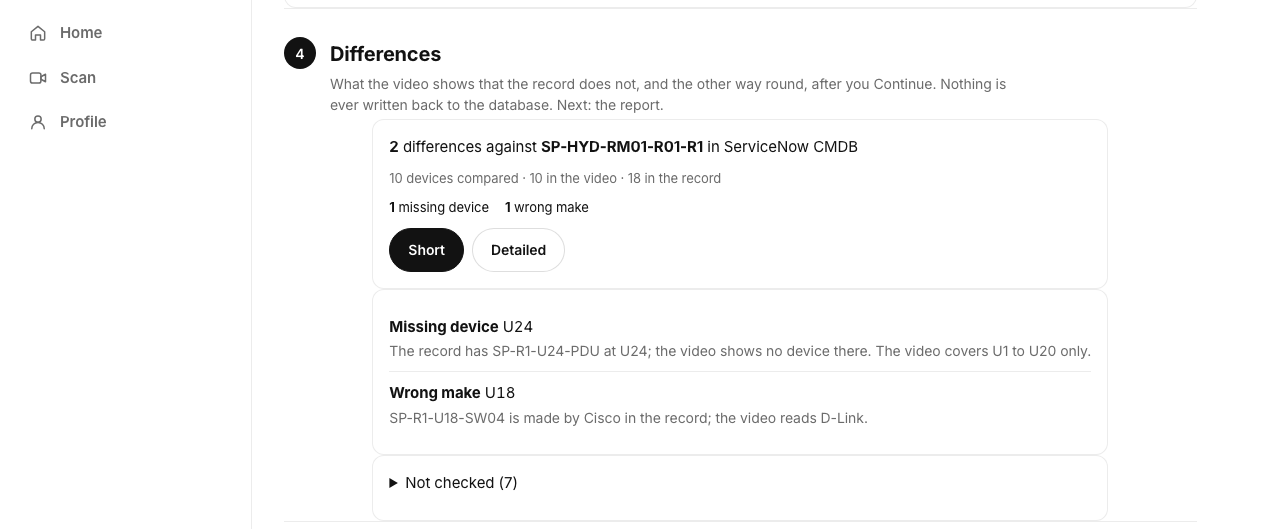
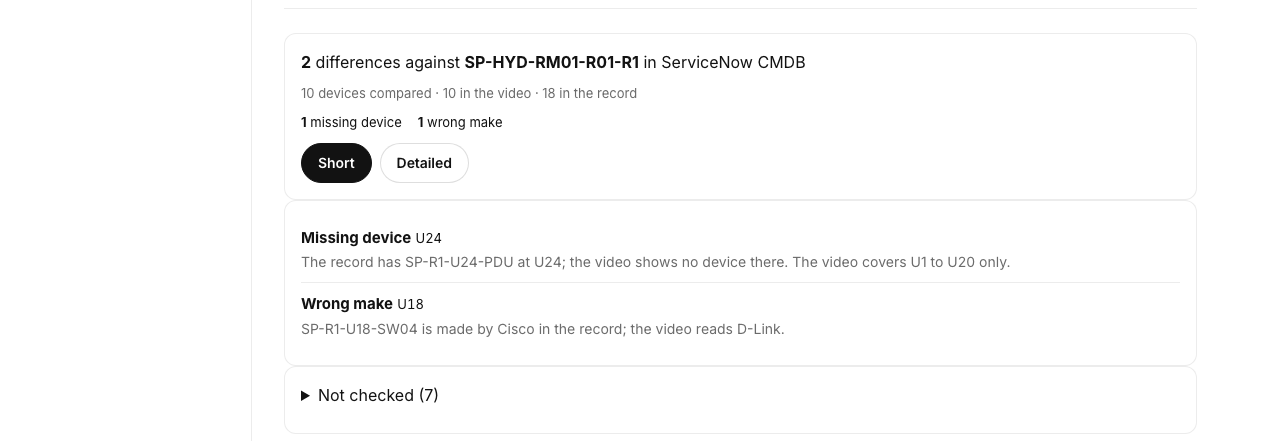
The result has three parts, Rack, Devices and Report; the compare lives inside the Report (the database dropdown and Compare, the rack identified step by step with proof and confidence, Continue, then the differences short or detailed, then the earlier scans at the bottom); one type scale and spacin

diff --git a/mobile/app.js b/mobile/app.js
@@ -38,8 +38,8 @@
   // ---------------------------------------------------------------- routing: #signin #home #history #sweep #job/<id> #result/<id> #report/<id> #more #models
   var DETAIL = { job: 'Run', result: 'Result', history: 'History', models: 'Models and accuracy', connections: 'Connections', copies: 'Database copies' };
   // the result's bar: Main is the rack read from the data; the other four show the report's steps in groups
-  var TABS = { rack: '1 The rack picture', devices: '2 Devices read', record: '3 The record', diff: '4 Differences', report: '5 Report' };   // one page in this order; the keys are the steps to jump to
-  var ALIAS = { elevation: 'devices', drift: 'record', ports: 'devices' };   // ports live on each device (user, 2026-10-27: one place per device)
+  var TABS = { rack: 'Rack', devices: 'Devices', report: 'Report' };   // one page in three parts; the compare and its differences live inside the Report
+  var ALIAS = { elevation: 'devices', drift: 'compare', record: 'compare', diff: 'diff', ports: 'devices', compare: 'compare' };   // ports live on each device (user, 2026-10-27: one place per device)
   var KINDS = ['Switch', 'Router', 'Firewall', 'Gateway', 'Patch Panel', 'Server', 'Storage unit', 'PDU', 'UPS', 'Other'];
   var LAST = null;                                   // the run the Report tab opens: the one being looked at, else the newest finished one
   try { LAST = localStorage.getItem('rt_last') || null; } catch (e) {}
@@ -56,7 +56,8 @@
   function route() {
     var h = (location.hash || '#home').slice(1), name = h.split('/')[0], arg = h.split('/')[1], arg2 = h.split('/')[2];
     if (name === 'report') { if (arg) return go('result/' + arg + '/report'); if (LAST) return go('result/' + LAST + '/report'); toast('The report appears here once a video has been analysed.'); return go('home'); }
-    var rtab = name === 'result' ? (TABS[arg2] ? arg2 : ALIAS[arg2] || 'rack') : null;
+    var rtab = name === 'result' ? (TABS[arg2] ? arg2 : ALIAS[arg2] ? (ALIAS[arg2] === 'compare' || ALIAS[arg2] === 'diff' ? 'report' : ALIAS[arg2]) : 'rack') : null;
+    if (name === 'result' && (ALIAS[arg2] === 'compare' || ALIAS[arg2] === 'diff')) RES.jump = ALIAS[arg2];
     if (rtab) { var order = Object.keys(TABS), was = order.indexOf(RES.tab || 'rack'), now = order.indexOf(rtab); document.body.dataset.dir = now > was ? 'fwd' : now < was ? 'back' : 'same'; RES.tab = rtab; }   // the tab's content slides in from the side it came from
     if (!me && !AUTH_SCREENS[name]) { name = 'signin'; }
     if (me && AUTH_SCREENS[name]) { name = 'home'; }
@@ -527,7 +528,7 @@
   function openResult(id, tab) {
     if (!id) return go('history');
     var fresh = RES.id !== id;
-    if (fresh) { RES.sel = null; RES.view = null; RES.pick = null; RES.labelAsked = null; RES.cmp = null; RES.cmpSrc = null; RES.diffMode = null; $('df-top').innerHTML = ''; $('diff-top').innerHTML = ''; $('rp-cmp').innerHTML = ''; }
+    if (fresh) { RES.sel = null; RES.view = null; RES.pick = null; RES.labelAsked = null; RES.cmp = null; RES.cmpSrc = null; RES.diffMode = null; $('df-top').innerHTML = ''; $('diff-top').innerHTML = ''; }
     RES.id = id; clearInterval(RES.timer); remember(id);
     RES.tab = tab; Object.keys(TABS).forEach(function (k) { $('res-' + k).hidden = false; }); $('res-elevation').hidden = false; $('res-eyebrow').textContent = 'Result'; $('rep-full').hidden = NATIVE;   // every step on one page
     loadView(true);
@@ -536,7 +537,7 @@
     if (fresh) loadOtherScans(id);
   }
   function loadView(first) {
-    api('/api/video/' + RES.id + '/view').then(function (v) { RES.view = v; renderResult(v, first); if (first) secTo(RES.tab); }).catch(function (e) { toast(e.message); if (first) go('job/' + RES.id); });
+    api('/api/video/' + RES.id + '/view').then(function (v) { RES.view = v; renderResult(v, first); if (first) { secTo(RES.jump || RES.tab); RES.jump = null; } }).catch(function (e) { toast(e.message); if (first) go('job/' + RES.id); });
   }
   function loadOtherScans(id) {                                         // the other scans of the same rack, newest first (Home lists a rack once)
     var el = $('res-others'); el.innerHTML = '';
@@ -885,8 +886,8 @@
   function pc(x) { return x == null ? '' : Math.round(x * 100) + ' %'; }
   var OUTCOME = { one: 'named one rack', narrowed: 'narrowed the racks', skipped: 'skipped', none: 'no single rack', tied: 'tied' };
   var HINT = { missing: 'Check whether the device is still in the rack. If the video did not reach that unit, scan the whole rack.',
-    extra: 'A device is in the rack that the record does not list: add it to the record, or check the reading in step 2.',
-    moved: 'The device sits at another unit than the record says: update the record, or check the unit numbers in step 1.',
+    extra: 'A device is in the rack that the record does not list: add it to the record, or check the reading under Devices.',
+    moved: 'The device sits at another unit than the record says: update the record, or check the unit numbers on the rack picture.',
     height: 'The record and the video give the device a different size.', kind: 'The record and the video name a different kind of device.',
     make: 'The faceplate reads another make than the record.', model: 'The faceplate reads another model than the record.', serial: 'The serial read differs from the record.',
     port_type: 'Look at the port: if the video is right, the record has the wrong port type.', port_occupied: 'A cable is where the record expects none, or missing where it expects one.',
@@ -913,7 +914,7 @@
       if (!d.match && I.top && I.top.length) h += '<p class="glabel">The closest racks</p><div class="idtop">' + I.top.map(function (t) { return '<button class="btn" type="button" data-cmppick="' + esc(t.rack_key) + '">' + esc(t.rack_key) + '<small class="muted"> ' + esc(t.why) + '</small></button>'; }).join('') + '</div>';
       h += '<div class="dfrow"><label class="muted small" for="cmp-type">' + (d.match ? 'Use another record' : 'Which rack is this?') + '</label><input id="cmp-type" list="cmp-list" placeholder="Search or type a rack id" autocomplete="off"><datalist id="cmp-list">'
         + d.candidates.map(function (r) { return '<option value="' + esc(r.rack_key) + '">' + esc(r.rack_key) + ' - ' + pl(r.devices, 'device') + '</option>'; }).join('') + '</datalist><button class="btn" type="button" id="cmp-use">Use this record</button></div>'
-        + '<p class="muted small">A name not in this copy is kept as this rack\'s id for the next scan of it (step 1, Change).</p>'
+        + '<p class="muted small">A name not in this copy is kept as this rack\'s id for the next scan of it (Change, next to the rack id at the top).</p>'
         + (d.match ? '<div class="dfrow"><button class="btn primary big" type="button" id="cmp-continue">' + (d.confirmed ? 'Compared. Compare again' : 'Continue') + '</button></div>' : '') + '</div>';
     }
     $('df-top').innerHTML = h;
@@ -922,8 +923,8 @@
   function recordRow(d, name) { var r = (d.record || []).filter(function (x) { return x.name === name; })[0]; if (!r) return '';
     return [r.name, r.kind, [r.manufacturer, r.model].filter(Boolean).join(' '), r.ru_start != null ? 'U' + r.ru_start + (r.ru_height > 1 ? '-' + (r.ru_start + r.ru_height - 1) : '') : ''].filter(Boolean).map(esc).join(' · '); }
   function renderDiff(d) {
-    var el = $('diff-top'), rp = $('rp-cmp');
-    if (!(d.confirmed && d.drift && d.match)) { el.innerHTML = '<p class="muted small">Press Compare in step 3, check the record, then Continue.</p>'; rp.innerHTML = ''; return; }
+    var el = $('diff-top');
+    if (!(d.confirmed && d.drift && d.match)) { el.innerHTML = ''; return; }
     var rows = d.drift.rows, mode = RES.diffMode || 'short', by = {}, src = d.sources[d.source];
     rows.forEach(function (r) { by[r.what] = (by[r.what] || 0) + 1; });
     var head = '<b>' + rows.length + '</b> ' + (rows.length === 1 ? 'difference' : 'differences') + ' against <b>' + esc(d.match.rack_key) + '</b> in ' + esc(src);
@@ -938,7 +939,6 @@
       + '<p>' + esc(r.words) + '</p><p class="muted small">' + esc(HINT[r.type] || '') + '</p></div>'; }).join('');
     if (d.drift.notes.length) h += '<details class="card"><summary>Not checked (' + d.drift.notes.length + ')</summary><ul class="muted small">' + d.drift.notes.map(function (n) { return '<li>' + esc(n) + '</li>'; }).join('') + '</ul></details>';
     el.innerHTML = h;
-    rp.innerHTML = '<div class="card"><span class="glabel">Compared with the record</span><p>' + head + '. ' + (rows.length ? Object.keys(by).map(function (k) { return by[k] + ' ' + k.toLowerCase(); }).join(', ') + '.' : 'No differences.') + ' <a href="#result/' + encodeURIComponent(RES.id) + '/diff">See step 4</a></p></div>';
   }
   document.addEventListener('change', function (e) { if (e.target.id !== 'cmp-src') return; RES.cmpSrc = e.target.value; renderCompare(RES.cmp); });
   document.addEventListener('click', function (e) { var t = e.target.closest && e.target.closest('#cmp-go, #cmp-copy, #cmp-use, #cmp-continue, [data-cmppick], [data-dfmode], [data-cmpchange]'); if (!t) return;

diff --git a/mobile/index.html b/mobile/index.html
@@ -15,7 +15,7 @@
 <link rel="preload" href="/app/fonts/inter-latin.woff2" as="font" type="font/woff2" crossorigin>
 <link rel="stylesheet" href="/app/app.css?v=127">
 <link rel="stylesheet" href="/app/rt/rt-topology.css?v=12">
-<link rel="stylesheet" href="/app/flow.css?v=5">
+<link rel="stylesheet" href="/app/flow.css?v=6">
 <style>
 /* the Drift tab: the database the run is checked against, the matched record, the differences */
 #df-top { display:flex; flex-direction:column; gap:12px; width:100%; }
@@ -249,7 +249,7 @@
   <section class="screen" data-screen="result" hidden>
     <span id="res-eyebrow" hidden></span><span id="res-title" hidden></span><span id="res-sub" hidden></span><a id="rep-full" href="#" hidden></a>
     <div class="card note" id="res-pending" hidden><span class="dot run"></span><div><b>Ports are being read in the background.</b><p class="muted small">Makes, models and ports fill in when done. Everything else is final.</p></div></div>
-    <header class="rsh" id="sec-rack"><span class="rsn">1</span><div><h2>The rack picture</h2><p class="muted">The rack stitched from the video, with every unit numbered. Switch the layer to see free space, devices or types. Next: the devices read from it.</p></div></header>
+    <header class="rsh" id="sec-rack"><span class="rsn">1</span><div><h2>The rack picture</h2><p class="muted">The rack stitched from the video, with every unit numbered. Switch the layer to see free space, devices or types.</p></div></header>
     <div class="rpart" id="res-rack">
       <div class="card rkask" id="rk-ask" hidden></div>
       <a class="nextstrip" id="rk-next" href="#" hidden></a>
@@ -261,7 +261,7 @@
       <div class="caprow" id="caprow"><p class="laycap" id="lay-cap"></p><button class="link fittog" id="fit-tog" type="button">Zoom in</button></div>
       <aside class="webside" id="rack-side"></aside>
     </div>
-    <header class="rsh" id="sec-devices"><span class="rsn">2</span><div><h2>Devices read</h2><p class="muted">Every device found, top to bottom: its kind and where that came from, and where read its make, model and ports. Open one to check it. Next: the record to compare with.</p></div></header>
+    <header class="rsh" id="sec-devices"><span class="rsn">2</span><div><h2>Devices read</h2><p class="muted">Every device found, top to bottom: its kind and where that came from, and where read its make, model and ports. Open one to check it.</p></div></header>
     <div class="rpart" id="res-devices">
       <div id="dv-pick"><p class="glabel" id="dv-pick-title">Choose a device</p><div class="card flush plist2" id="dv-list"></div></div>
       <div id="dv-one" hidden>
@@ -274,12 +274,11 @@
       <div class="elegend" id="rt-legend"></div>
       <div class="rteos" id="rt-topo"></div>
     </div>
-    <header class="rsh" id="sec-record"><span class="rsn">3</span><div><h2>The record</h2><p class="muted">Choose the database to check this rack against and press Compare. You see which rack id the video read and which record it matched, with the proof. Change the record if it is wrong, then Continue.</p></div></header>
-    <div class="rpart" id="res-record"><div id="df-top"></div></div>
-    <header class="rsh" id="sec-diff"><span class="rsn">4</span><div><h2>Differences</h2><p class="muted">What the video shows that the record does not, and the other way round, after you Continue. Nothing is ever written back to the database. Next: the report.</p></div></header>
-    <div class="rpart" id="res-diff"><div id="diff-top"><p class="muted small">Compare against a database in step 3 first.</p></div></div>
-    <header class="rsh" id="sec-report"><span class="rsn">5</span><div><h2>Report</h2><p class="muted">The rack on one page to keep or share: units, devices, free space and, once compared, the differences.</p></div></header>
-    <div class="rpart" id="res-report"><div id="rp-cmp"></div><div id="rp-top"></div><div id="res-others"></div></div>
+    <header class="rsh" id="sec-report"><span class="rsn">3</span><div><h2>Report</h2><p class="muted">The rack on one page: units, devices and free space. Below it, compare the rack against your database: the rack is identified step by step with its proof, then the differences are listed.</p></div></header>
+    <div class="rpart" id="res-report"><div id="rp-top"></div>
+      <div class="cmpsec" id="sec-compare"><h3>Compare against the database</h3><p class="muted small">Choose Excel workbook, NetBox or ServiceNow CMDB and press Compare. Check which rack it matched, then Continue. Nothing is ever written back to the database.</p><div id="df-top"></div></div>
+      <div class="cmpsec" id="sec-diff"><div id="diff-top"></div></div>
+      <div id="res-others"></div></div></div>
   </section>
 
   <!-- more -->
@@ -343,11 +342,9 @@
 <!-- the result's own bar: it replaces the app bar while a result is open -->
 <nav class="bottom" id="rnav" hidden>
   <div class="pill">
-    <a href="#" data-rtab="rack"><svg class="ic"><use href="#i-rack"/></svg><span>1 Rack</span></a>
-    <a href="#" data-rtab="devices"><svg class="ic"><use href="#i-guide"/></svg><span>2 Devices</span></a>
-    <a href="#" data-rtab="record"><svg class="ic"><use href="#i-server"/></svg><span>3 Record</span></a>
-    <a href="#" data-rtab="diff"><svg class="ic"><use href="#i-check"/></svg><span>4 Differences</span></a>
-    <a href="#" data-rtab="report"><svg class="ic"><use href="#i-doc"/></svg><span>5 Report</span></a>
+    <a href="#" data-rtab="rack"><svg class="ic"><use href="#i-rack"/></svg><span>Rack</span></a>
+    <a href="#" data-rtab="devices"><svg class="ic"><use href="#i-guide"/></svg><span>Devices</span></a>
+    <a href="#" data-rtab="report"><svg class="ic"><use href="#i-doc"/></svg><span>Report</span></a>
   </div>
 </nav>
 <nav class="bottom" id="nav" hidden>
@@ -362,6 +359,6 @@
 <div id="lb" hidden><img id="lbimg" alt=""><span>tap to close</span></div>
 <script src="/app/topology.js?v=1"></script>
 <script src="/app/rt/rt-topology.js?v=12" defer></script>
-<script src="/app/app.js?v=151"></script>
+<script src="/app/app.js?v=152"></script>
 </body>
 </html>

diff --git a/mobile/flow.css b/mobile/flow.css
@@ -95,3 +95,37 @@ body:not(.signed) main { min-height:100vh; display:flex; flex-direction:column; 
 .phero .pwho b, .phero b { color:var(--ink) !important; } .phero .avatar.big { background:var(--sunken) !important; color:var(--ink) !important; }
 .pstats > div { box-shadow:none !important; border:1px solid var(--line) !important; background:#fff !important; border-radius:12px !important; }
 #res-others:empty { display:none; }
+
+/* One type scale and spacing everywhere, as in the RT-EOS client: Inter, 16 px body at 1.5, 13 px captions, 12 px labels,
+   20 px headings, 24 px between sections, hairline rules, pure white, no boxes inside boxes, buttons no bigger than needed. */
+:root { --font:'Inter', -apple-system, BlinkMacSystemFont, 'Segoe UI', Roboto, sans-serif; --fs-page:20px; --fs-head:20px; --fs-item:16px; --fs-body:16px; --fs-sub:13px; --fs-label:12px; }
+body, body.web { font:16px/1.5 var(--font) !important; letter-spacing:0 !important; color:var(--ink); }
+h1, .rsh h2, .phead h1, h2.onet { font-size:20px !important; line-height:1.3 !important; font-weight:600 !important; letter-spacing:-.01em !important; }
+h2 { font-size:18px !important; font-weight:600 !important; } h3, .cmpsec h3 { font-size:16px !important; font-weight:600 !important; margin:0 0 4px !important; }
+p, li, td, th, label, input, select, textarea, .btn, .card, .muted { font-family:var(--font); }
+.muted.small, .small, small, figcaption, .sideline, .pline, .dfacts, .laycap, .kd { font-size:13px !important; line-height:1.45 !important; }
+.glabel, .eyebrow, th, .rptable th, .dftable th { font:600 12px/1.4 var(--font) !important; letter-spacing:.06em !important; text-transform:uppercase; color:var(--t2) !important; }
+.mono, .iu, td.mono { font-family:var(--mono) !important; font-size:13px !important; }
+main, .screen { gap:24px !important; }
+.screen[data-screen="result"] { gap:16px !important; }
+.card { padding:16px !important; gap:10px !important; }
+.card .card, .card .sidecard, .rpcol .card { border:0 !important; padding:0 !important; border-radius:0 !important; }
+.btn { min-height:40px !important; padding:0 16px !important; font-size:14px !important; font-weight:600 !important; }
+.btn.big { min-height:44px !important; font-size:15px !important; }
+.rh-btn, .phead .btn.primary.big { min-height:44px !important; }
+.rsn { width:28px; height:28px; font-size:13px; }
+.rsh { padding:24px 0 0 !important; gap:12px !important; } .rsh h2 { margin:2px 0 2px !important; } .rsh p { font-size:14px !important; }
+/* tables: a tinted header row and a hairline between rows, no stripes */
+table.rptable, table.dftable, table.cptable, table.wbtable { border-collapse:collapse; width:100%; font-size:14px !important; }
+.rptable thead th, .dftable thead th, .cptable thead th, .wbtable thead th { background:#f6f6f6 !important; padding:10px 12px !important; text-align:left; }
+.rptable td, .dftable td, .cptable td, .wbtable td { padding:10px 12px !important; border-top:1px solid var(--line) !important; background:#fff !important; vertical-align:top; }
+.rptable tbody tr:nth-child(odd) td, .rptable tbody tr:nth-child(odd) { background:#fff !important; }
+/* the compare inside the report */
+.cmpsec { display:flex; flex-direction:column; gap:12px; padding-top:24px; border-top:1px solid var(--line); margin-top:8px; }
+.cmpsec:empty, #sec-diff:has(#diff-top:empty) { display:none; }
+.dflines li { font-size:15px; }
+@media (max-width:600px) {
+  body, body.web { font-size:15px !important; }
+  .rptable td:nth-child(2) { width:auto !important; } .rptable td, .rptable th { padding:8px !important; }
+  .rptable td:first-child { white-space:nowrap; }
+}

diff --git a/tools/proof_flow.py b/tools/proof_flow.py
@@ -124,15 +124,15 @@ def main():
                 pg.select_option("#cmp-src", src); pg.wait_for_timeout(400)
                 pg.click("#cmp-go"); pg.wait_for_selector(".idcard", timeout=15000); pg.wait_for_timeout(800)
                 seen[(width, f"{src} identify")] = [text(".idcard .verdict")] + pg.eval_on_selector_all(".idsteps li", "ls => ls.map(l => l.innerText.replace(/\\n+/g, ' | '))")
-                secshot(f"record_{src}", "record", "res-record")
+                secshot(f"compare_{src}", "compare", "sec-compare")
                 pg.click("#cmp-continue"); pg.wait_for_selector("#diff-top .seg2", timeout=15000); pg.wait_for_timeout(800)
                 seen[(width, f"{src} differences")] = pg.eval_on_selector_all("#diff-top .dflines li", "ls => ls.map(l => l.dataset.dftype + ': ' + l.querySelector('p').textContent)")
-                secshot(f"differences_{src}", "diff", "res-diff")
+                secshot(f"differences_{src}", "diff", "sec-diff")
                 if src == "netbox":
-                    pg.click('[data-dfmode="detailed"]'); secshot("differences_detailed_netbox", "diff", "res-diff", 1500)
+                    pg.click('[data-dfmode="detailed"]'); secshot("differences_detailed_netbox", "diff", "sec-diff", 1500)
                     pg.click('[data-dfmode="short"]'); pg.wait_for_timeout(300)
             secshot("report", "report", "res-report", 1200)
-            seen[(width, "report compare line")] = text("#rp-cmp")
+            seen[(width, "earlier scans")] = text("#res-others summary")
             pg.goto(APP + "/app/#more"); shot("profile", 1200)
             pg.close()
         b.close()
